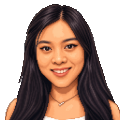
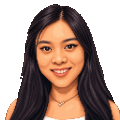
Show a separate portrait for Maxine on the light theme
The model drew Maxine's portrait on white, so the hair edge picked up
light pixels that show as dots on dark backgrounds. The dark-theme image
is now cut from the full-size render without them, but that cut looks
harsh on the light theme, which keeps the earlier image.

Portraits take an optional lightSrc. The profile page and the residents
list render both images and let the theme pick one, the same way
BrandLockup switches logos. The residents list test ignores the
light-theme copy when it counts portraits.

diff --git a/src/data/profiles.ts b/src/data/profiles.ts
@@ -1,6 +1,13 @@
 export type ProfileLink = { label: string; href: string };
 
-export type Portrait = { name: string; src: string; width: number; height: number };
+export type Portrait = {
+	name: string;
+	src: string;
+	/** Shown instead of src on the light theme, for a portrait whose edge is cut for dark backgrounds. */
+	lightSrc?: string;
+	width: number;
+	height: number;
+};
 
 export type Profile = {
 	slug: string;
@@ -273,7 +280,7 @@ export const profiles: Profile[] = [
 		building: 'Hover Team',
 		summary:
 			'Maxine Lai is the co-founder of Hover Team, which gives companies a clear view of what’s going on in their business, built on the chats, email and spreadsheets they already use.',
-		portraits: [{ name: 'Maxine Lai', src: '/images/residents/maxine-lai.png', width: 120, height: 120 }],
+		portraits: [{ name: 'Maxine Lai', src: '/images/residents/maxine-lai.png', lightSrc: '/images/residents/maxine-lai-light.png', width: 120, height: 120 }],
 		about: [
 			'I’m Maxine, co-founder of Hover Team. I started out as a data analyst at a property intelligence firm, where my co-founder and I turned messy market data into decisions businesses could act on.',
 			'My first build was *Klovr*, WhatsApp automation for sales teams. Working on it, I saw that the chats, sheets and inboxes a business runs on already hold most of what you need to automate it. The data was all there. Nobody was reading it.',

diff --git a/tests/site.spec.ts b/tests/site.spec.ts
@@ -52,7 +52,7 @@ test('residents page links every resident to their profile', async ({ page }) =>
 	for (const profile of profiles) {
 		const card = page.locator(`a.person[href="/residents/${profile.slug}"]`);
 		await expect(card.getByRole('heading', { level: 2 })).toHaveText(profile.name);
-		await expect(card.locator('img')).toHaveCount(profile.portraits.length);
+		await expect(card.locator('img:not(.person-portrait-light)')).toHaveCount(profile.portraits.length);
 	}
 	await expect(page.getByRole('link', { name: 'Meet the resident teams' })).toHaveAttribute('href', '/resident-teams');
 	expect(await page.evaluate(() => document.documentElement.scrollWidth <= window.innerWidth + 1)).toBe(true);
